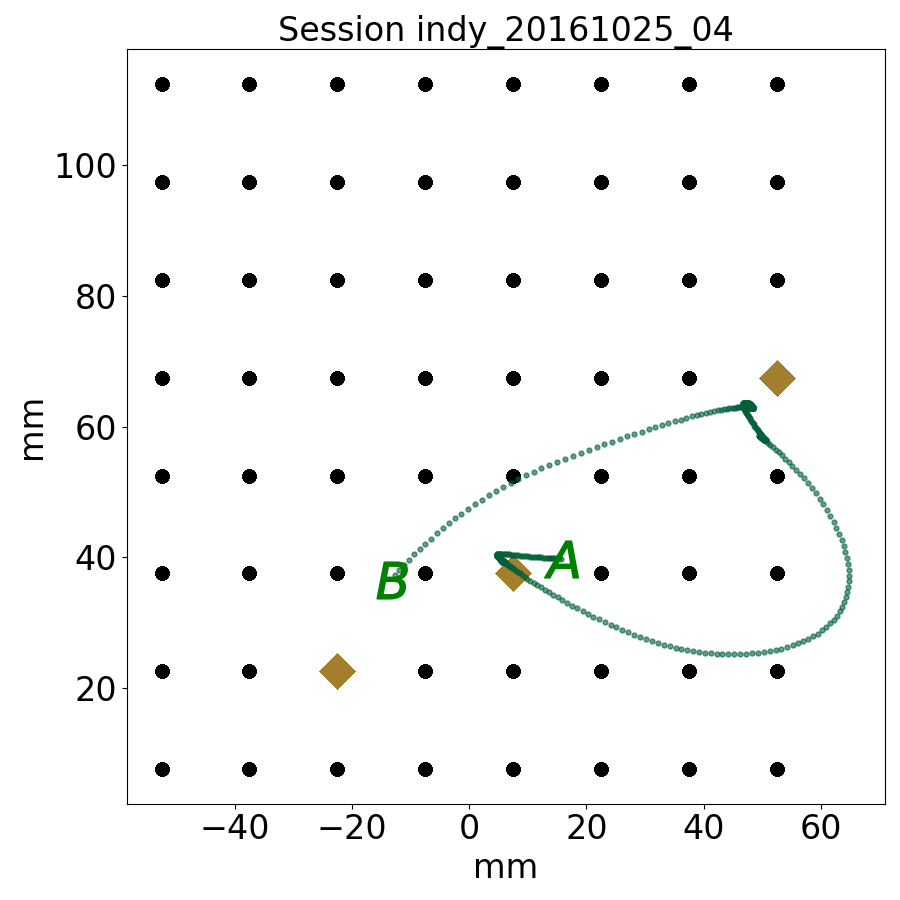
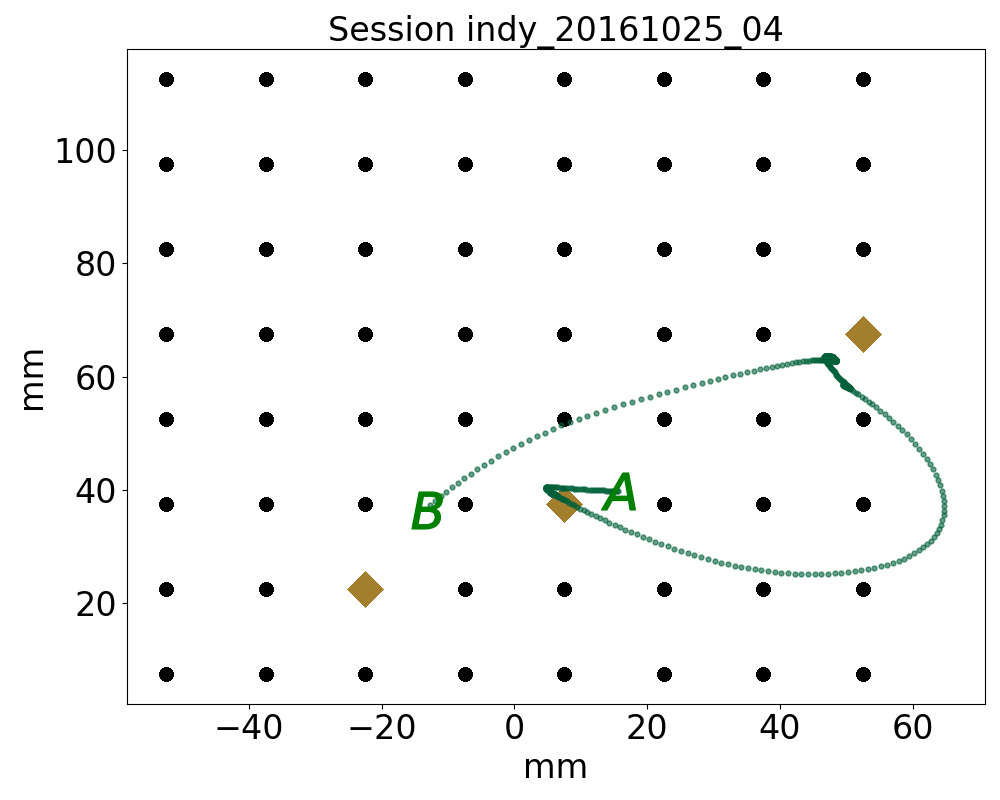
fig

diff --git a/Python_code/Read_mat_file_and_Plot/plot_x_y_trajectory.py b/Python_code/Read_mat_file_and_Plot/plot_x_y_trajectory.py
@@ -105,7 +105,7 @@ plot.close()
 plot_start_sample_time = 9840 #10125
 plot_end_sample_time = plot_start_sample_time + 590 # 1830 before for more trials
 
-plot.figure(figsize=(9,9))
+plot.figure(figsize=(10,8))
 plot.scatter( target_x_coor, target_y_coor, color='black', s=80)
 # for i in range(plot_start_sample_time, plot_end_sample_time+1):
 plot.scatter( target_x_coor[plot_start_sample_time:plot_end_sample_time], target_y_coor[plot_start_sample_time:plot_end_sample_time], marker='D', color='#A37E2C', s=300)
